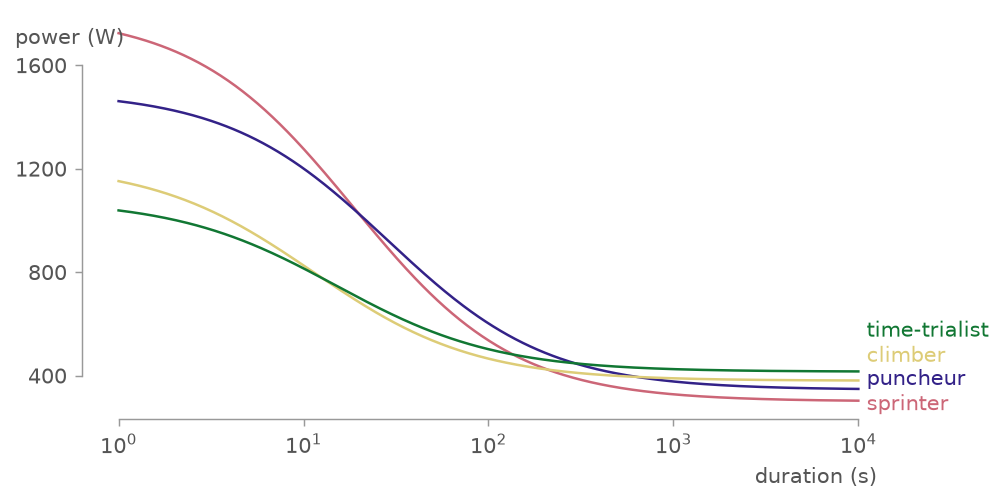
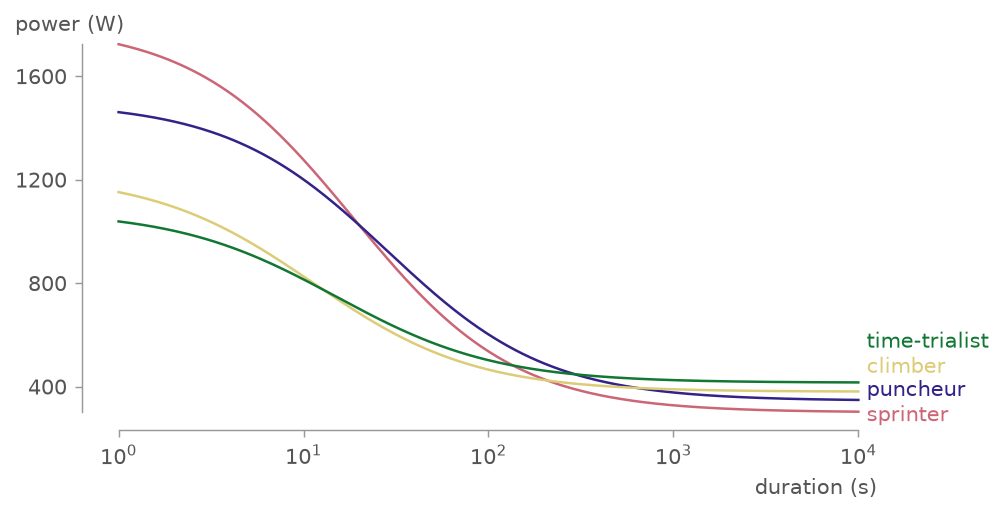
fix(gallery): run the power profile spine to the data
The sprinter's one-second power sits above the outermost y tick, so a
'nice' end left the curve spilling across the ylabel: at figsize
(4, 2.2) the curve crossed the label at 21 sampled points. A 'data'
end takes the spine, and with it the label, up past the peak; measured
clear at every figure size and dpi tried.

Claude-Session: https://claude.ai/code/session_013FnxMLomMa2SCqyKwtDEmX

diff --git a/examples/gallery.py b/examples/gallery.py
@@ -228,7 +228,10 @@ def power_profiles() -> None:
     seconds = np.geomspace(1, 10_000, 400)
     fig, ax = plt.subplots(figsize=(7, 3.5))
     ax.set_xscale("log")
-    vzs.distill(ax, frame=("data", "nice"))
+    # The sprinter's one-second power runs above the outermost tick, so a
+    # 'nice' y end would leave the curve spilling over the ylabel. A 'data'
+    # end takes the spine, and with it the label, up past the peak.
+    vzs.distill(ax, frame=("data", "data"))
     # Four peer series, so opt into colour: the muted scheme carries the
     # distinction, and line_labels names each curve in its own colour.
     ax.set_prop_cycle(vzs.palettes.cycle("muted"))
